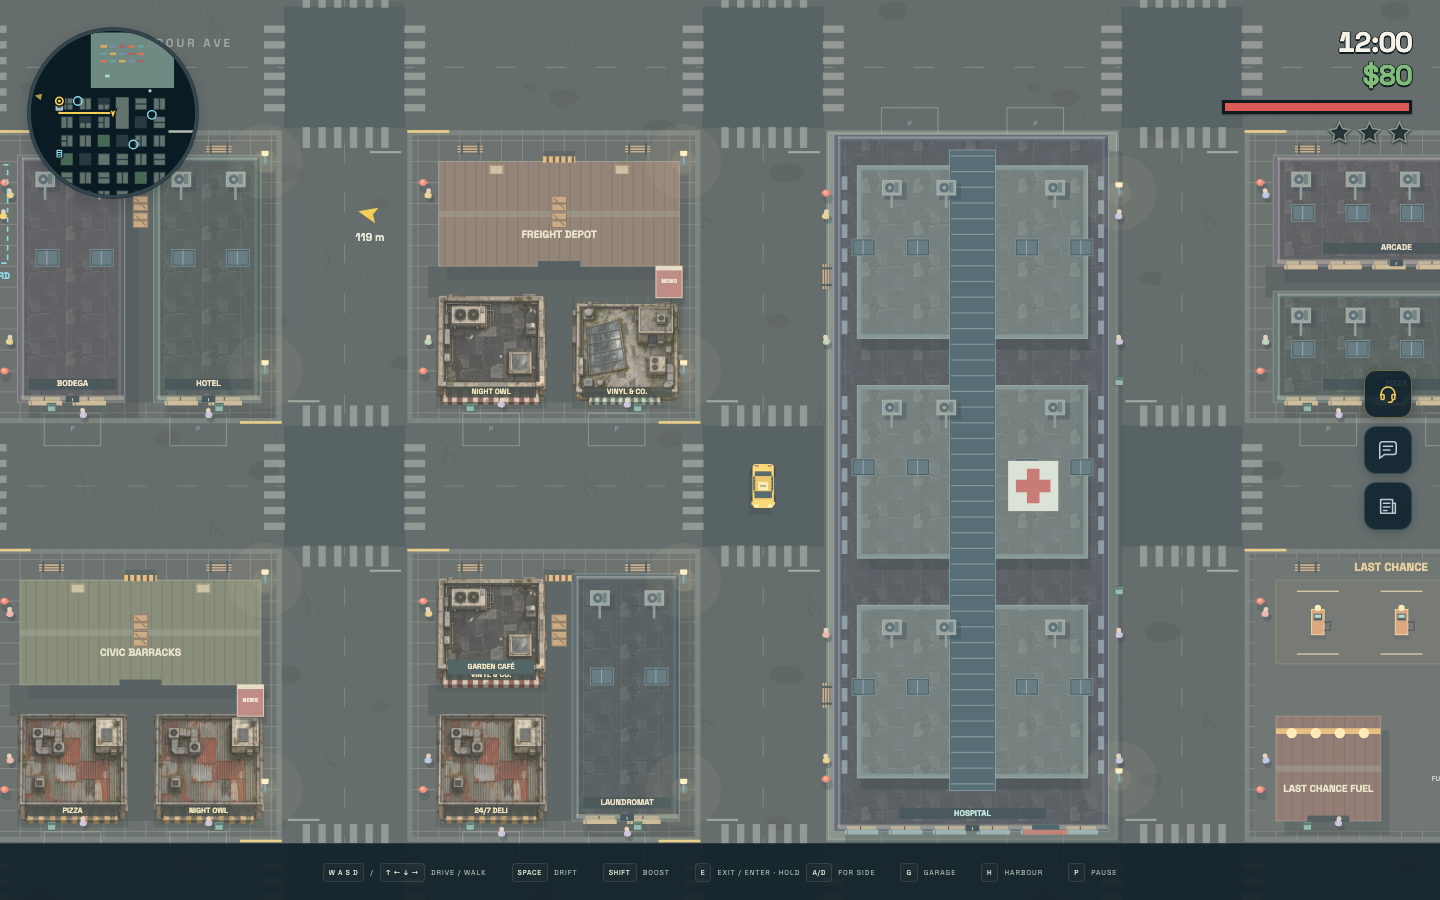
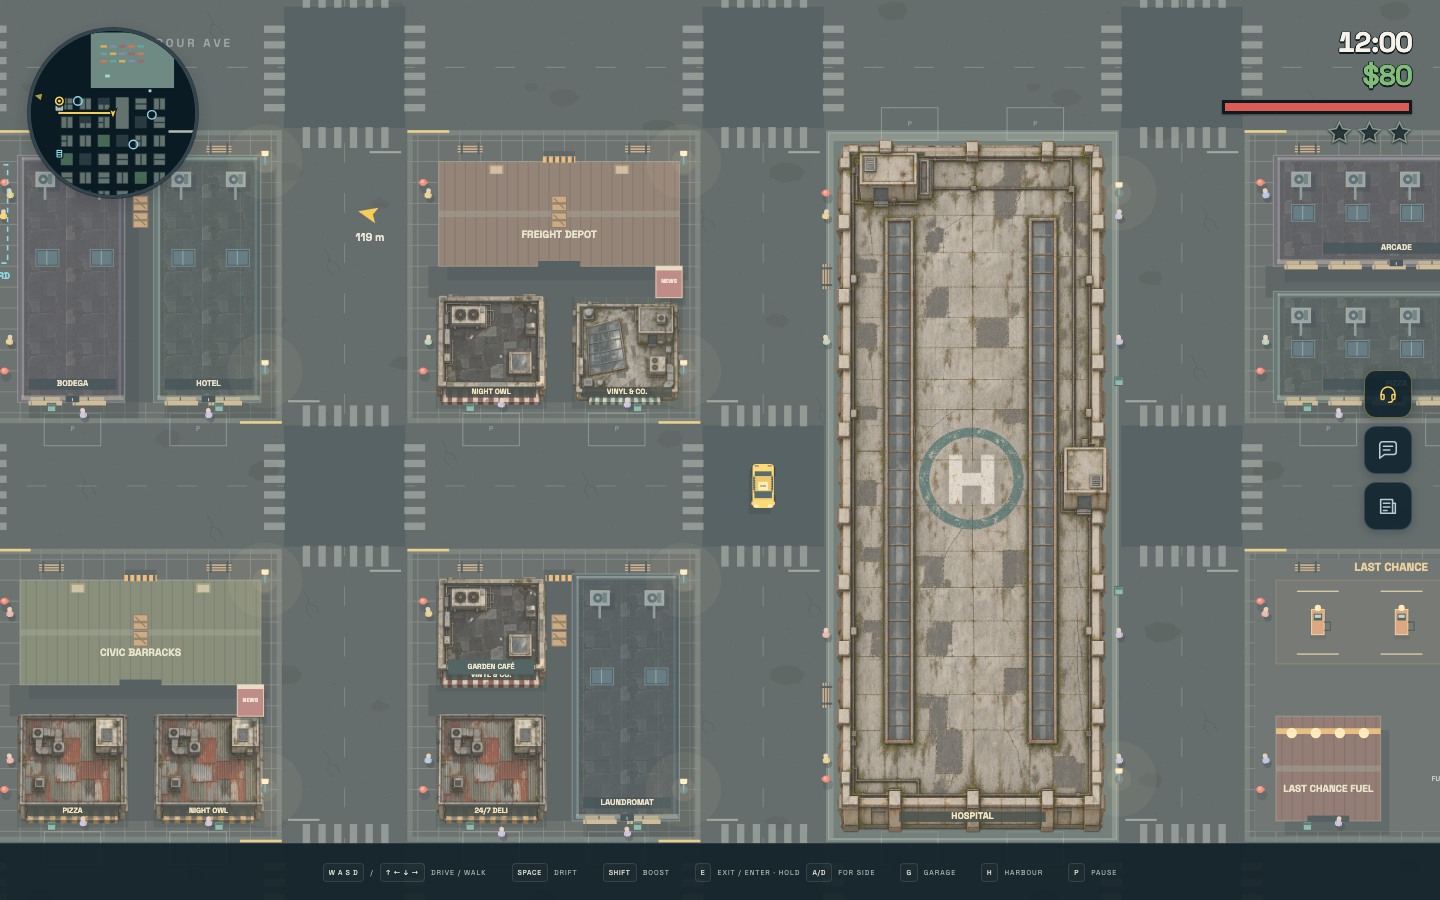
Use the supplied hospital roof artwork on the two-block site

Changed region(s): [[0.5625, 0.1556, 0.7812, 0.9333]]

diff --git a/src/artwork/catalogue.ts b/src/artwork/catalogue.ts
@@ -3,9 +3,11 @@ import { vec, type Vec } from '../physics';
 /** All coordinates are metres, relative to the collision body's centre. */
 export type ArtBounds = Readonly<{ x: number; y: number; width: number; height: number }>;
 export type PropArtwork = Readonly<{
-  image: 'shop-tar' | 'shop-rust' | 'shop-concrete' | 'tree-worn';
+  image: 'shop-tar' | 'shop-rust' | 'shop-concrete' | 'tree-worn' | 'hospital-roof';
   layer: 'structure';
   bounds: ArtBounds;
+  /** Optional pixel crop removes export padding without changing the source PNG. */
+  source?: ArtBounds;
   rotation?: number;
   /** Convex silhouette for sun shadows; optional outline for blocking directed light. */
   silhouette: readonly Vec[];
@@ -14,10 +16,12 @@ export type PropArtwork = Readonly<{
 export type ArtProp = { id?: number; sourceId?: string; kind: string; body: { position: Vec; angle?: number; w: number; h: number } };
 const shopOutline = [vec(-5.3, -5.3), vec(5.3, -5.3), vec(5.3, 5.3), vec(-5.3, 5.3)];
 const shop = { layer: 'structure', bounds: { x: -5.3, y: -5.3, width: 10.6, height: 10.6 }, silhouette: shopOutline, occluder: shopOutline } as const;
+const hospitalOutline = [vec(-13.3, -33.3), vec(13.3, -33.3), vec(13.3, 33.3), vec(-13.3, 33.3)];
 export const propArtwork = {
   shop: { ...shop, image: 'shop-tar' },
   shopRust: { ...shop, image: 'shop-rust' },
   shopConcrete: { ...shop, image: 'shop-concrete' },
+  hospital: { image: 'hospital-roof', layer: 'structure', bounds: { x: -13.3, y: -33.3, width: 26.6, height: 66.6 }, source: { x: 33, y: 16, width: 726, height: 1951 }, silhouette: hospitalOutline, occluder: hospitalOutline },
   tree: { image: 'tree-worn', layer: 'structure', bounds: { x: -2.6, y: -2.6, width: 5.2, height: 5.2 }, silhouette: Array.from({ length: 12 }, (_, i) => vec(Math.cos(i * Math.PI / 6) * 2.4, Math.sin(i * Math.PI / 6) * 2.4)) },
 } as const satisfies Record<string, PropArtwork>;
 const shops = [propArtwork.shop, propArtwork.shopRust, propArtwork.shopConcrete];
@@ -34,6 +38,7 @@ function appearanceSeed(prop: ArtProp): number {
 export function artworkFor(prop: ArtProp): PropArtwork | undefined {
   const { position: p, w, h } = prop.body;
   if (p.x < 0 || p.x > 240 || p.y < 0 || p.y > 240) return;
+  if (prop.kind === 'building' && prop.sourceId === 'city-building-3-1-landmark' && w === 26 && h === 66) return propArtwork.hospital;
   if (prop.kind === 'building' && w === 10 && h === 10) return shops[appearanceSeed(prop) % shops.length];
   if (prop.kind === 'tree') return trees[appearanceSeed(prop) % trees.length];
 }

diff --git a/src/artwork/images.ts b/src/artwork/images.ts
@@ -3,6 +3,7 @@ import shopRust from '../assets/map/shop-rust.png?inline';
 import shopConcrete from '../assets/map/shop-concrete.png?inline';
 import tree from '../assets/map/tree-worn.png?inline';
 import asphalt from '../assets/map/asphalt.svg?inline';
+import hospital from '../assets/map/hospital-structure.png?inline';
 import { asphaltArtwork, type ArtBounds, type PropArtwork } from './catalogue';
 
 /** One decoded image per asset, shared by normal games and editor previews. */
@@ -14,7 +15,7 @@ export class ArtworkImages {
   private roofTile?: HTMLCanvasElement;
   private roofPatterns = new WeakMap<CanvasRenderingContext2D, CanvasPattern>();
   load(): Promise<void> {
-    return this.loading ??= Promise.all(Object.entries({ 'shop-tar': shopTar, 'shop-rust': shopRust, 'shop-concrete': shopConcrete, 'tree-worn': tree, asphalt }).map(([id, src]) => new Promise<void>(resolve => {
+    return this.loading ??= Promise.all(Object.entries({ 'shop-tar': shopTar, 'shop-rust': shopRust, 'shop-concrete': shopConcrete, 'tree-worn': tree, asphalt, 'hospital-roof': hospital }).map(([id, src]) => new Promise<void>(resolve => {
       const image = new Image();
       image.onload = () => { this.images.set(id, image); resolve(); };
       // Individual failures retain procedural fallback artwork, including in offline builds.
@@ -60,7 +61,10 @@ export class ArtworkImages {
     if (!image) return false;
     const b = art.bounds;
     c.save(); c.rotate(art.rotation ?? 0);
-    c.drawImage(image, b.x, b.y, b.width, b.height); c.restore();
+    const source = art.source;
+    if (source) c.drawImage(image, source.x, source.y, source.width, source.height, b.x, b.y, b.width, b.height);
+    else c.drawImage(image, b.x, b.y, b.width, b.height);
+    c.restore();
     return true;
   }
   ground(c: CanvasRenderingContext2D, bounds: ArtBounds): void {

diff --git a/src/renderer.ts b/src/renderer.ts
@@ -460,7 +460,6 @@ export class Renderer {
       if (prop.fire > 0) drawFire(c, vec(), prop.kind === 'station' ? 3 : 1.4, this.game.time, prop.id);
       c.restore(); return;
     }
-    if (drawCityBuilding(this, prop, so, this.shadowAlpha)) { c.restore(); return; }
     const art = artworkFor(prop);
     if (art && artworkImages.has(art.image)) {
       // Structure artwork shares the old prop pass. Destruction above stays authoritative.
@@ -468,14 +467,16 @@ export class Renderer {
       trace(c, [...art.silhouette], true); c.fillStyle = '#172c2d80'; c.fill(); c.restore();
       artworkImages.draw(c, art);
       if (prop.kind === 'building') {
-        this.rect(-4.3, 3.55, 8.6, 1.0, '#182320dd');
+        const hospital = art.image === 'hospital-roof', signWidth = hospital ? 14 : 8.6, signY = hospital ? b.h / 2 - 1.4 : 4.05;
+        this.rect(-signWidth / 2, signY - 0.5, signWidth, 1.0, '#182320dd');
         // Rasterize at a normal font size; subpixel Canvas fonts lose glyph strokes.
         c.save(); c.scale(0.05, 0.05);
-        this.label(prop.label, 0, 81, 20 * Math.min(0.72, 8.6 / Math.max(1, prop.label.length * 0.65)), prop.label === 'PIT STOP' ? MINT : '#f0dfae', '700');
+        this.label(prop.label, 0, signY * 20, 20 * Math.min(hospital ? 0.9 : 0.72, signWidth / Math.max(1, prop.label.length * 0.65)), prop.label === 'PIT STOP' ? MINT : '#f0dfae', '700');
         c.restore();
       }
       c.restore(); return;
     }
+    if (drawCityBuilding(this, prop, so, this.shadowAlpha)) { c.restore(); return; }
     if (prop.kind === 'guardrail') {
       this.rect(-b.w / 2, -b.h / 2, b.w, b.h, '#314847');
       this.rect(-b.w / 2, -b.h / 2 - 0.12, b.w, b.h * 0.55, prop.color);

diff --git a/src/artwork/images.test.ts b/src/artwork/images.test.ts
@@ -38,7 +38,7 @@ describe('artwork image caching', () => {
     const loading = art.load();
     expect(art.load()).toBe(loading);
     await loading;
-    expect(images).toHaveLength(5);
+    expect(images).toHaveLength(6);
     expect(createElement).toHaveBeenCalledExactlyOnceWith('canvas');
     expect(tile).toMatchObject({ width: 768, height: 384 });
     expect(raster.calls.drawImage).toHaveBeenCalledExactlyOnceWith(images[4], 0, 0);
@@ -96,5 +96,14 @@ describe('artwork image caching', () => {
     expect(main.calls.createPattern).toHaveBeenCalledTimes(2);
     expect(main.calls.createPattern.mock.calls).toEqual([[tile, 'repeat'], [tile, 'repeat']]);
     expect(main.calls.fillRect).toHaveBeenCalledTimes(2);
+  });
+
+  it('draws the hospital crop at its collision-centred bounds and fails cleanly without a decoded image', async () => {
+    const { images } = browser();
+    const art = new ArtworkImages(), main = canvasContext();
+    expect(art.draw(main.ctx, propArtwork.hospital)).toBe(false);
+    await art.load();
+    expect(art.draw(main.ctx, propArtwork.hospital)).toBe(true);
+    expect(main.calls.drawImage).toHaveBeenCalledExactlyOnceWith(images[5], 33, 16, 726, 1951, -13.3, -33.3, 26.6, 66.6);
   });
 });

diff --git a/src/artwork/catalogue.test.ts b/src/artwork/catalogue.test.ts
@@ -49,4 +49,16 @@ describe('top-down artwork geometry', () => {
       { kind: 'crate', body: new Body(14, 14, Infinity, 1.4, 1.4) },
     ]) expect(artworkFor(prop)).toBeUndefined();
   });
+  it('assigns hospital artwork by stable identity without changing the two-block collision body', () => {
+    const hospital = new World().props.find(p => p.sourceId === 'city-building-3-1-landmark')!;
+    const corners = hospital.body.corners();
+    expect(artworkFor(hospital)).toBe(propArtwork.hospital);
+    const renamed = { ...hospital, label: 'RENAMED' };
+    expect(artworkFor(renamed)).toBe(propArtwork.hospital);
+    expect(artworkFor({ ...hospital, sourceId: 'another-building' })).toBeUndefined();
+    const outline = occluderFor(hospital, propArtwork.hospital.occluder)!;
+    expect(pointInConvex(vec(140, 40), outline.points)).toBe(true);
+    expect(hospital.body.corners()).toEqual(corners);
+    expect([hospital.body.w, hospital.body.h]).toEqual([26, 66]);
+  });
 });

diff --git a/docs/hospital-artwork.md b/docs/hospital-artwork.md
@@ -1,0 +1,35 @@
+# Hospital artwork
+
+The user supplied `hospital-structure-v2.png` (1056 × 1312 RGBA) for Midtown
+Hospital. The original upload is unchanged. OpenAI's built-in image-generation
+tool extended that roof into a tall transparent sprite for the existing two-block
+site, retaining the weathered concrete, two glazed strips, utility huts, pipes,
+parapets and teal helipad.
+
+The project asset is `src/assets/map/hospital-structure.png` (787 × 1997 RGBA).
+The renderer crops transparent export padding with source bounds
+(33, 16, 726, 1951) pixels, then paints it at (-13.3, -33.3, 26.6, 66.6) metres
+relative to the collision centre. The physical building stays 26 × 66 m.
+The hospital's stable source ID selects the artwork; its display label does not.
+Sun shadows and directed-light occlusion follow the artwork's outline.
+The runtime HOSPITAL sign sits at the south frontage by the recovery entrance.
+
+The PNG is decoded once and embedded directly in the standalone HTML. Failed
+image loads retain the existing procedural hospital and its compiled silhouette.
+The original street closure, parking, collisions, routing and RNG are unchanged.
+No external fonts or runtime image requests are introduced.
+
+## Adaptation
+
+Tool: built-in `image_gen.imagegen`, edit target: the user-supplied image,
+`transparent_background: true`.
+
+Exact prompt:
+
+```text
+Use case: precise-object-edit
+Asset type: transparent PNG straight-overhead hospital building sprite for a Canvas game.
+Input image 1 is the edit target supplied by the user. Adapt this exact hospital roof to a much taller footprint. Preserve its weathered concrete, parapet masonry, cracks, patches, moss, utility pipes, stairwell huts, paired dark glazed skylights, and central teal circular helipad with its white H.
+Required composition: one complete long rectangular hospital, portrait width:height 26:66 (about 1024 x 2592 pixels). Extend the existing structure substantially to the north and south, adding matching roof and skylight sections. Do not stretch the helipad or individual roof details: the helipad must remain a true circle with an undistorted H. Keep its size relative to the building width and its central position. The paired skylight strips may be extended with additional matching panels. Keep the whole outer perimeter visible with only a very small transparent margin.
+Strict invariants: straight orthographic overhead camera, north at top, same gritty painterly raster style, no isometric view, no roads or landscaping, no people or vehicles, no cast shadow outside the building, no words or logos other than the existing H. Maintain the original building's identity and subdued palette. Clean the bright red fringe around the supplied cutout. Output genuine transparent background outside the complete building; do not bake a checkerboard or solid backdrop.
+```

diff --git a/docs/city-buildings.md b/docs/city-buildings.md
@@ -30,13 +30,16 @@ without backtracking through intersection centres. Interior hospital targets
 resolve to an outer road, while invalid starts inside it hold position. Both
 CLI and editor validation sweep actual car/truck bodies along open city roads
 as well as countryside roads. The hospital roof has three ward sections and a
-glazed spine, with metre-scale equipment and glazing.
+glazed spine in its procedural fallback. The normal appearance uses the
+user-supplied hospital roof, extended vertically to fit the two-block site;
+see [hospital-artwork.md](hospital-artwork.md) for its source and adaptation prompt.
 
-Large roofs are drawn as continuous structures with doors, glazing, skylights
+Ordinary large roofs are drawn as continuous structures with doors, glazing, skylights
 and HVAC kept at metre scale. Their membrane texture reuses a cropped section
 of the embedded shop artwork, cached once per image and canvas context; it adds
-no asset or network dependency. Procedural rendering remains available when
-images fail. Existing asset attribution remains in place.
+no extra asset or network dependency. The hospital PNG is also embedded in the
+standalone HTML. Procedural rendering remains available when images fail;
+asset attribution includes the supplied hospital image and its adaptation.
 
 Validation:
 

diff --git a/src/assets/ATTRIBUTION.md b/src/assets/ATTRIBUTION.md
@@ -5,7 +5,7 @@ https://fonts.google.com/specimen/Space+Grotesk
 Licensed under the SIL Open Font License 1.1.
 https://github.com/floriankarsten/space-grotesk/blob/master/OFL.txt
 
-All city art is drawn procedurally, not texture-based.
+City art combines procedural drawing and self-contained embedded artwork.
 
 `src/assets/characters/` includes the user-supplied PNG portraits for Mia,
 Frankie, Rosa, Celia, Adrian Vale and Bea. The nine Open Shore SVG identity
@@ -25,3 +25,10 @@ generation tool, using a user-supplied urban scene as a style reference. Prompt
 specifications are in `docs/map-artwork-prompts.md`. Transparent sprites are trimmed
 and resized for gameplay. `map/asphalt.svg` is original vector surface detail.
 These assets require no external fonts, images or runtime services.
+
+`map/hospital-structure.png` adapts the user-supplied
+`hospital-structure-v2.png` for the two-block Midtown Hospital. OpenAI's built-in
+image-generation tool extended the roof vertically and retained its weathered
+concrete, skylights, pipes and teal helipad. The original upload remains unchanged.
+The adaptation prompt and sprite alignment are recorded in
+`docs/hospital-artwork.md`. The PNG is bundled inline with a procedural fallback.
